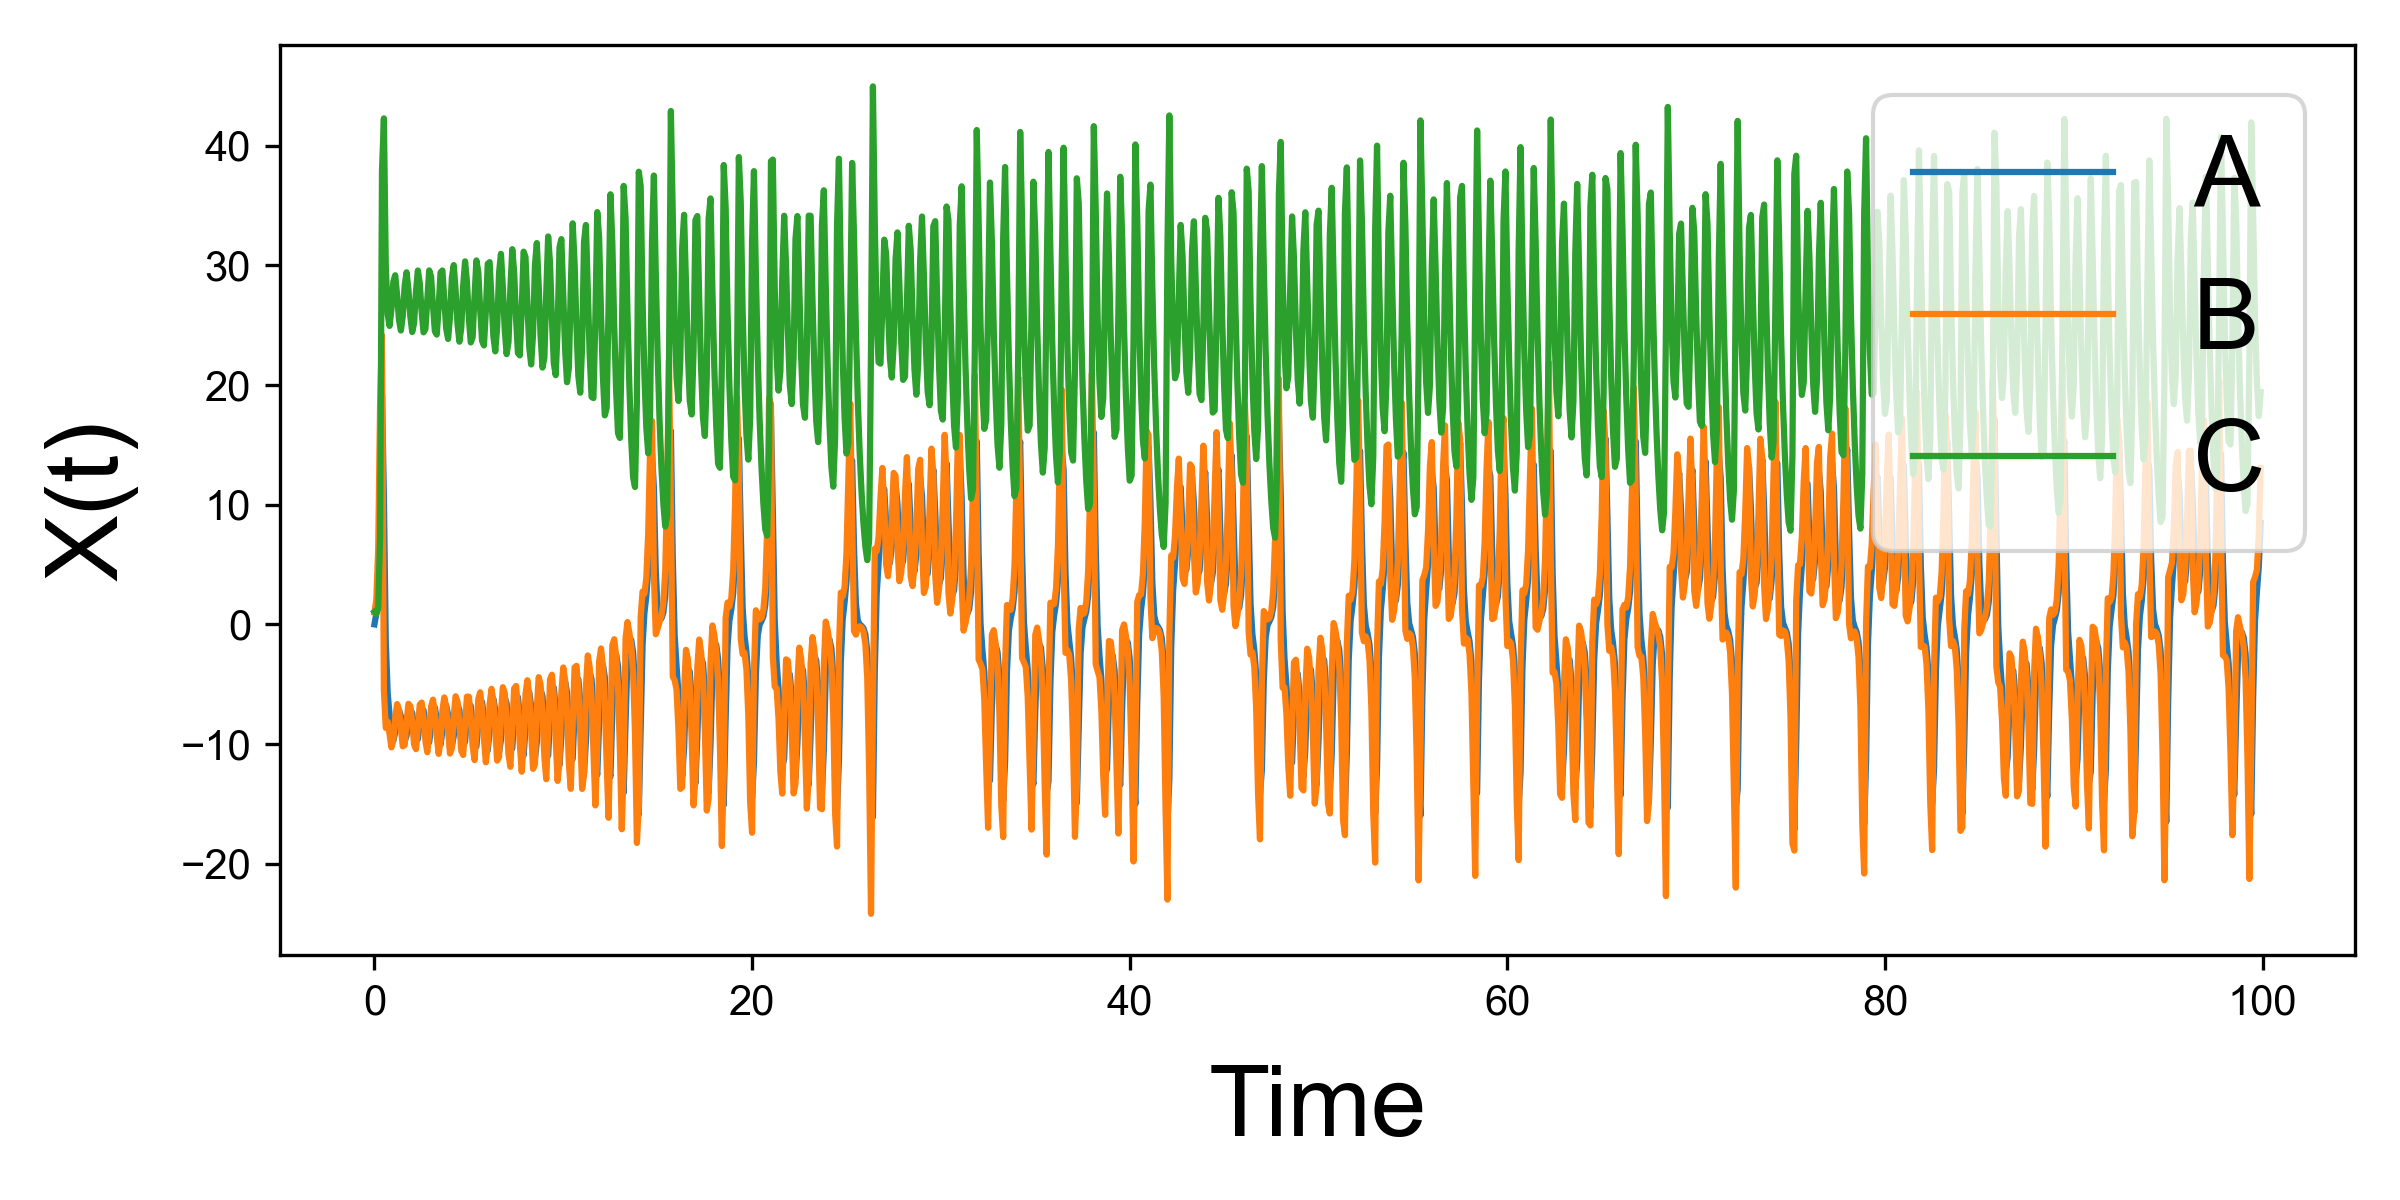
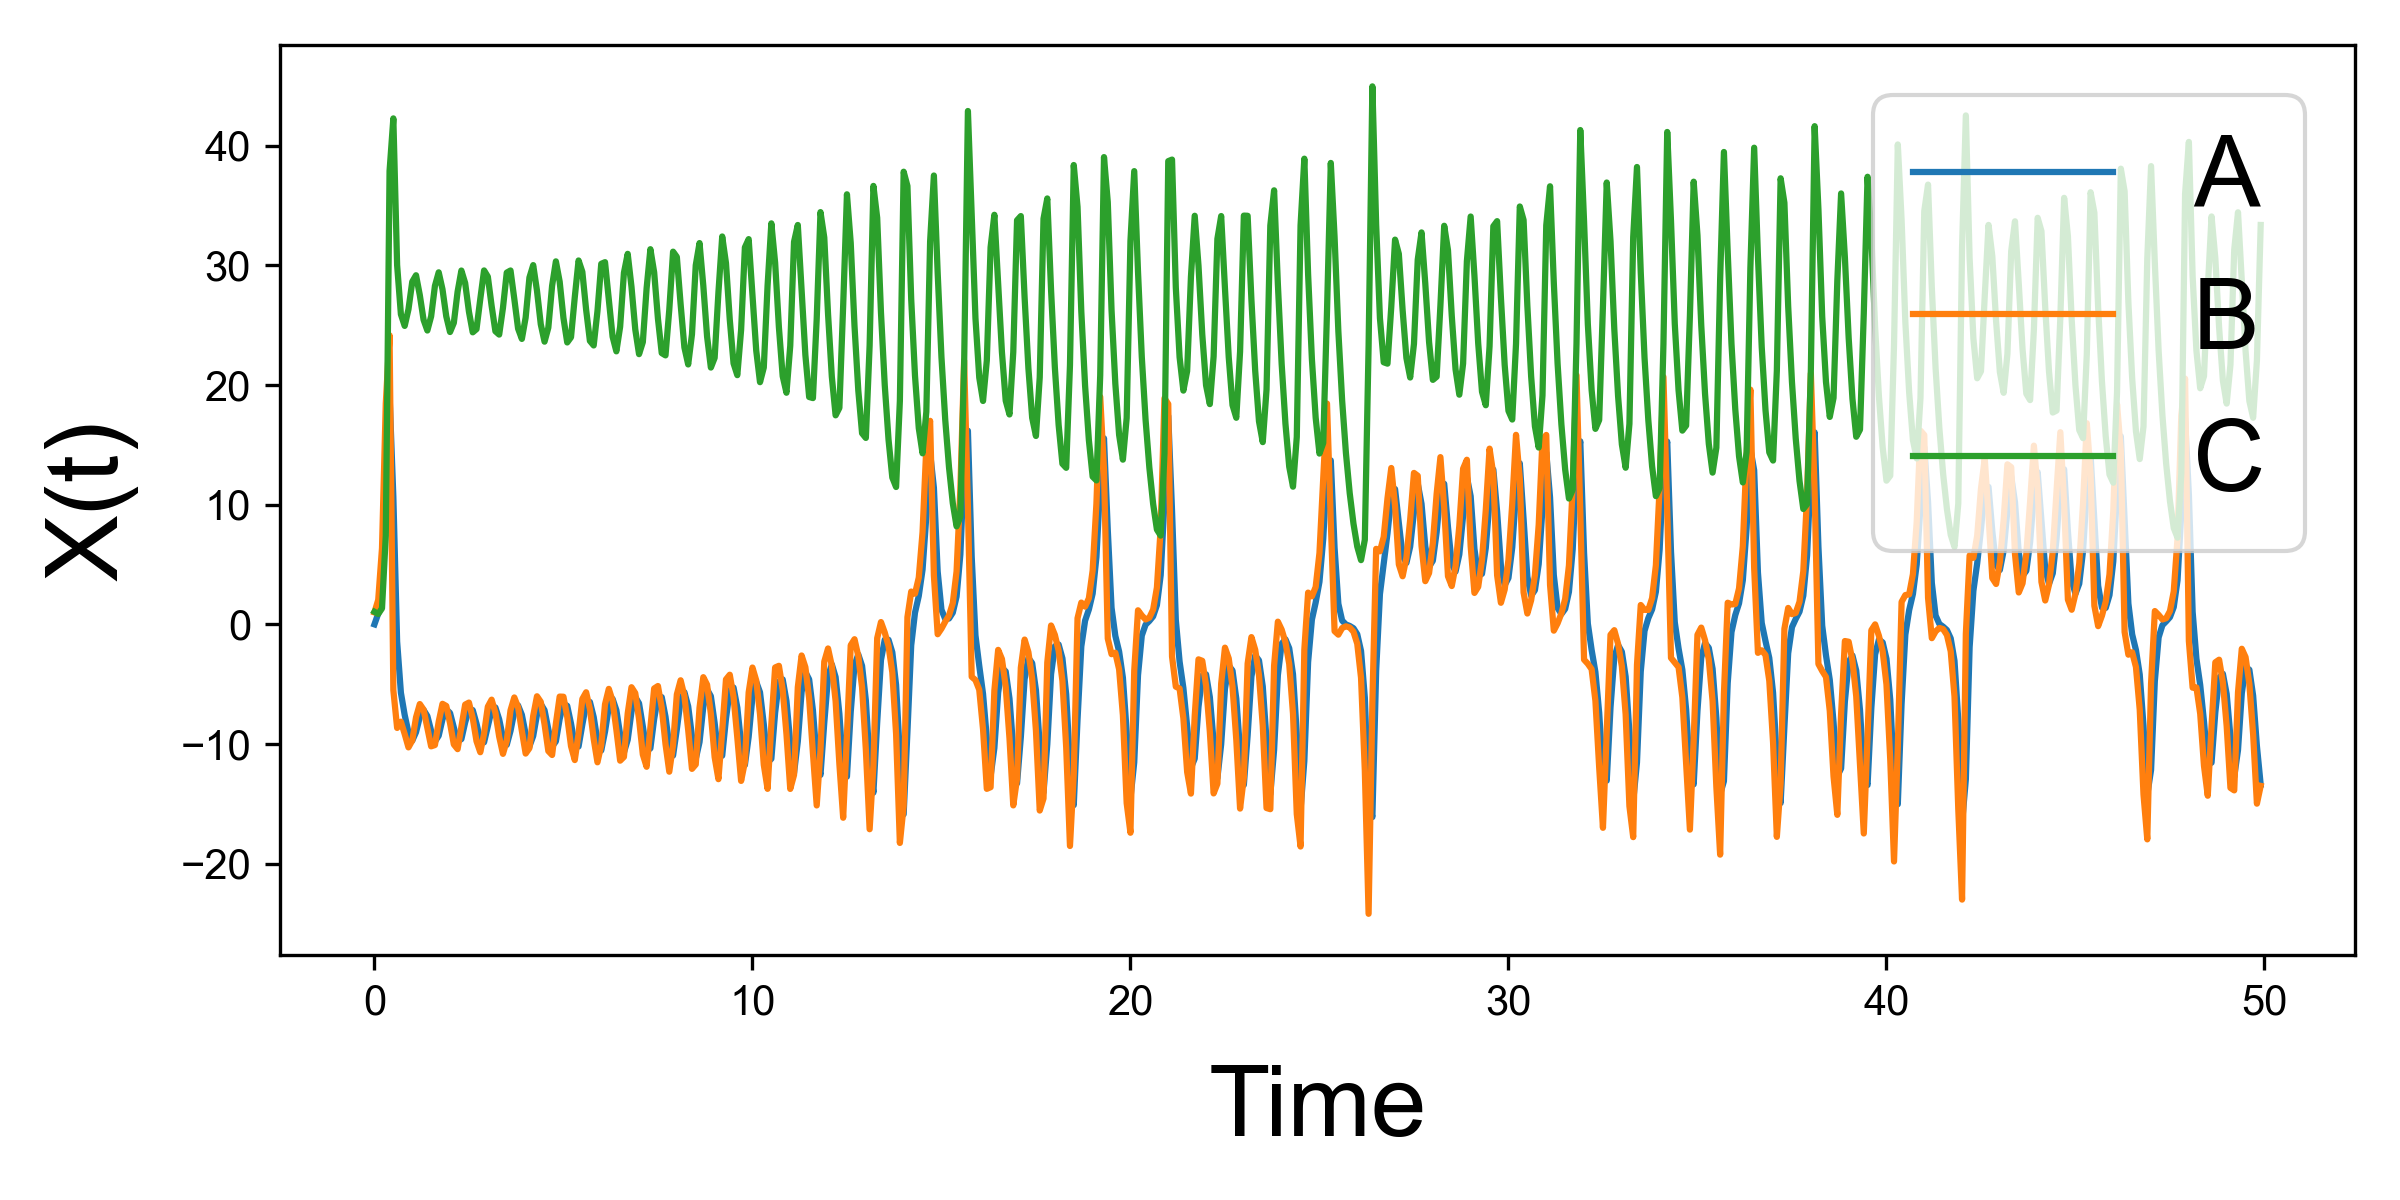
Revise lorenz dynamics example

Changed region(s): [[0.1562, 0.0925, 0.9688, 0.74], [0.9375, 0.8017, 0.9688, 0.8633], [0.8125, 0.7092, 0.8438, 0.74]]

diff --git a/examples/codes/visualize_ode_lorenz.py b/examples/codes/visualize_ode_lorenz.py
@@ -119,7 +119,7 @@ def update(nav, net):
         x, y, z = s
         return [sigma * (y - x), x * (rho - z) - y, x * y - beta * z]
     
-    t = np.arange(0, 100, 0.1)
+    t = np.arange(0, 50, 0.1)
     y0 = np.array([0, 1, 1.05])
     s = odeint(ode, y0, t)
 
@@ -135,13 +135,9 @@ def update(nav, net):
     fpaths = []
     for i, (state, norm_abs_state) in enumerate(zip(s, norm_abs_s)):
         net = create_network(pos_x, pos_y, state, norm_abs_state)
-        nav.append_item(net)
-        fpath = "lorenz-dynamics-%03d.png"%(i)
+        fpath = osp.join(dpath, "lorenz-dynamics-%03d.png"%(i))
         fpaths.append(fpath)
-        write_image(net,
-                    fpath,
-                    scale_width=200,
-                    scale_height=200)
+        write_image(net, fpath, dpi_width=300, dpi_height=300)
     # end of for
 
     create_movie(fpaths, osp.join(dpath, "lorenz-dynamics.gif"))

diff --git a/examples/codes/visualize_ode_2nnfl.py b/examples/codes/visualize_ode_2nnfl.py
@@ -119,10 +119,7 @@ def update(nav, net):
         net = create_network(pos_x, pos_y, s)
         fpath = osp.join(dpath, "2nnfl-dynamics-%03d.png"%(i))
         fpaths.append(fpath)
-        write_image(net,
-                    fpath,
-                    transparent=False,
-                    scale_width=200, scale_height=200)
+        write_image(net, fpath, transparent=False, scale_width=200, scale_height=200)
     # end of for
 
     create_movie(fpaths, osp.join(dpath, "2nnfl-dynamics.gif"))

diff --git a/examples/codes/solve_ode_lorenz.py b/examples/codes/solve_ode_lorenz.py
@@ -14,7 +14,7 @@ def ode(s, t):
     x, y, z = s
     return [sigma * (y - x), x * (rho - z) - y, x * y - beta * z]
 
-t = np.arange(0, 100, 0.1)
+t = np.arange(0, 50, 0.1)
 y0 = np.array([0, 1, 1.05])
 y = odeint(ode, y0, t)
 
